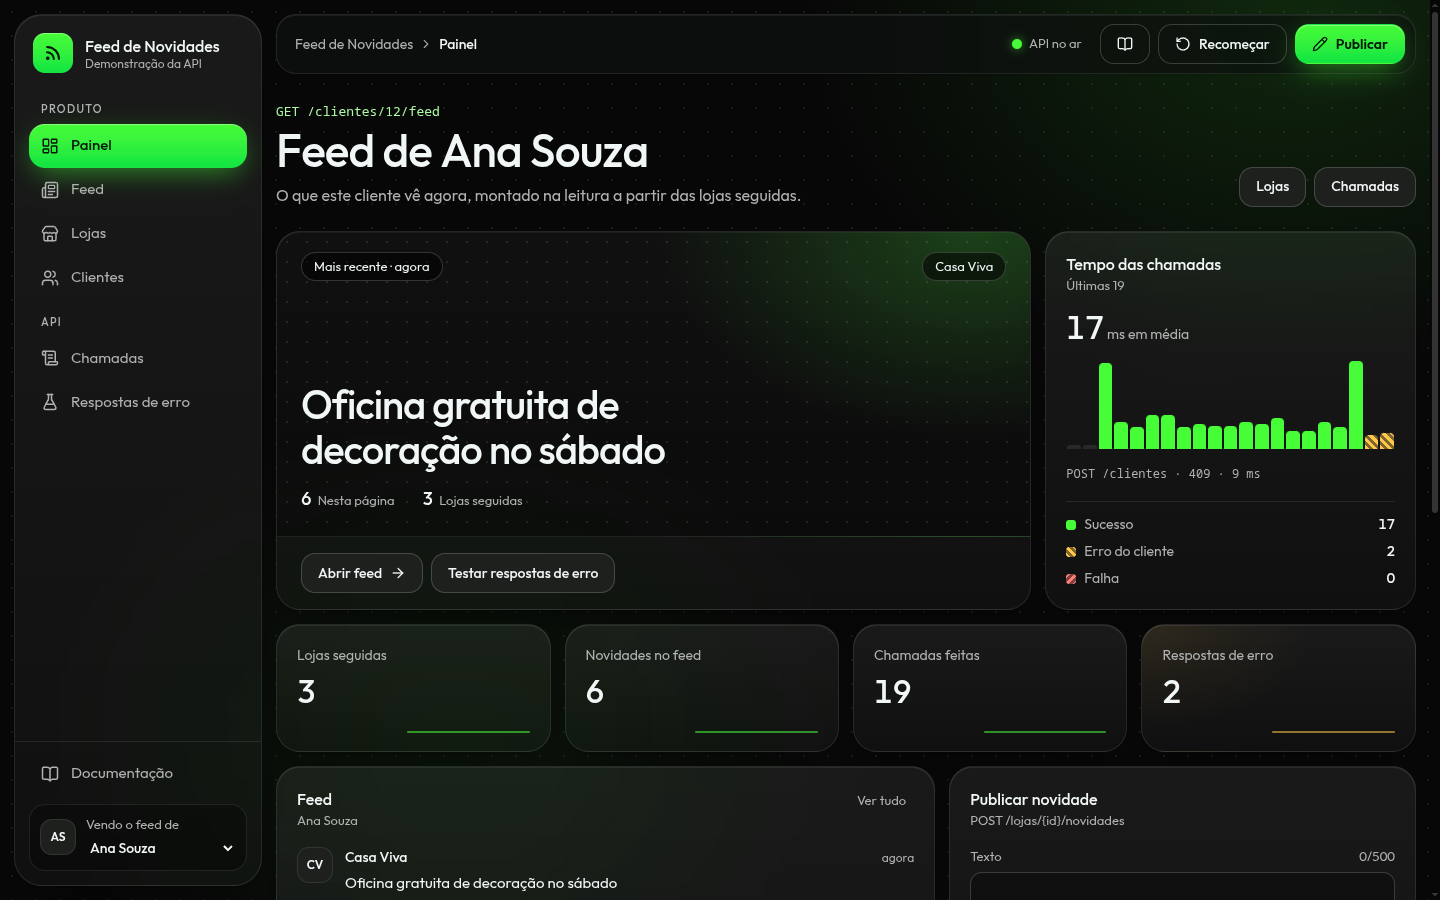
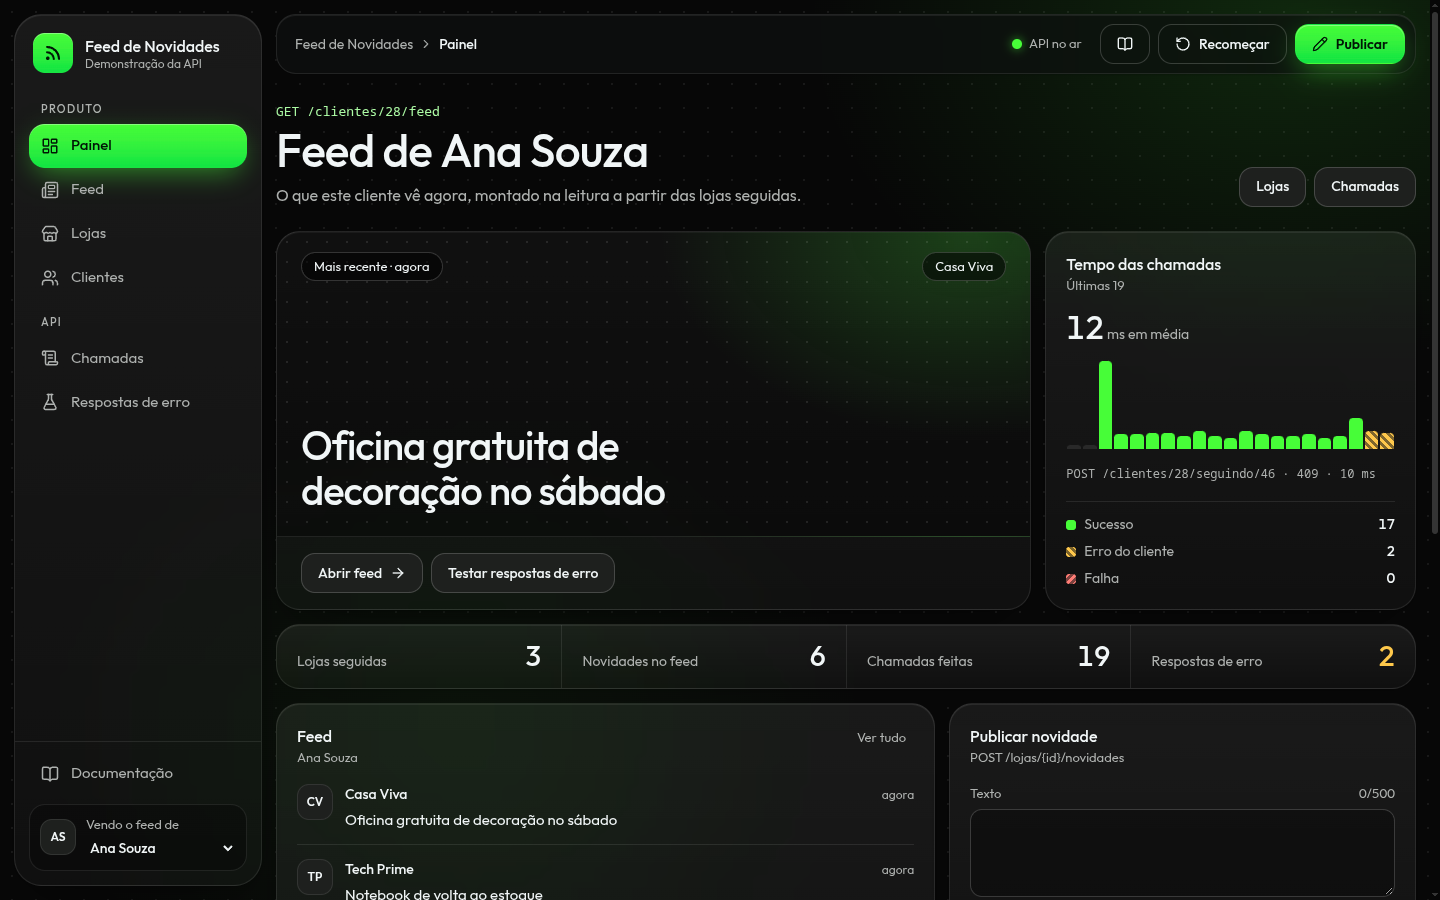
docs(readme): atualiza a imagem do painel e corrige detalhes da documentação

diff --git a/README.md b/README.md
@@ -48,14 +48,14 @@ Uma tela para ver a API funcionando de ponta a ponta, sem nenhuma alteração na
 
 ### Páginas
 
-| Página                | Para que serve                                                                     | Rotas usadas                                                                                    |
-| --------------------- | ---------------------------------------------------------------------------------- | ----------------------------------------------------------------------------------------------- |
-| **Painel**            | Novidade mais recente, indicadores, tempo das chamadas, feed resumido e publicação | várias                                                                                          |
-| **Feed**              | Feed completo, com escolha do limite (5, 20 ou 50) e **Carregar mais**             | `GET /clientes/{id}/feed`                                                                       |
-| **Lojas**             | Criar loja, seguir, deixar de seguir e publicar                                    | `POST /lojas`, `POST` e `DELETE /clientes/{id}/seguindo/{lojaId}`, `POST /lojas/{id}/novidades` |
-| **Clientes**          | Criar cliente e escolher de quem é o feed exibido                                  | `POST /clientes`                                                                                |
-| **Chamadas**          | Cada requisição feita pela tela, com método, status, tempo e JSON                  | todas                                                                                           |
-| **Respostas de erro** | Dispara os casos 400, 404, 409 e 422 e mostra a resposta                           | várias                                                                                          |
+| Página                | Para que serve                                                                                              | Rotas usadas                                                                                    |
+| --------------------- | ----------------------------------------------------------------------------------------------------------- | ----------------------------------------------------------------------------------------------- |
+| **Painel**            | Novidade mais recente, indicadores, tempo das chamadas, feed resumido, últimas chamadas, publicação e lojas | várias                                                                                          |
+| **Feed**              | Feed completo, com escolha do limite (5, 20 ou 50) e **Carregar mais**                                      | `GET /clientes/{id}/feed`                                                                       |
+| **Lojas**             | Criar loja, seguir, deixar de seguir e publicar                                                             | `POST /lojas`, `POST` e `DELETE /clientes/{id}/seguindo/{lojaId}`, `POST /lojas/{id}/novidades` |
+| **Clientes**          | Criar cliente e escolher de quem é o feed exibido                                                           | `POST /clientes`                                                                                |
+| **Chamadas**          | Cada requisição feita pela tela, com método, status, tempo e JSON                                           | todas                                                                                           |
+| **Respostas de erro** | Dispara os casos 400, 404, 409 e 422 e mostra a resposta                                                    | várias                                                                                          |
 
 O seletor **Vendo o feed de**, na barra lateral, troca o cliente ativo. No celular, essa troca fica na página **Clientes**.
 
@@ -117,7 +117,7 @@ curl -X POST localhost:3000/lojas/5/novidades -H 'Content-Type: application/json
   -d '{"texto":"Ração em promoção","preco":79.9}'
 ```
 
-`201`: `{"id":26,"lojaId":5,"texto":"Ração em promoção","preco":"79.90","criadoEm":"2026-11-04T23:39:46.062Z"}`
+`201`: `{"id":26,"texto":"Ração em promoção","preco":"79.90","criadoEm":"2026-11-04T23:39:46.062Z","lojaId":5}`
 
 ### `GET /clientes/{id}/feed?limite=20`
 
@@ -220,7 +220,7 @@ Medições num notebook, com PostgreSQL 17 em Docker, 2 mil lojas, 150 mil clien
 
 ### Banco
 
-- **Regras no banco:** e-mail único, chave primária `(cliente_id, loja_id)`, chaves estrangeiras e `CHECK` de texto e preço. Os erros 404 e 409 de seguir e publicar vêm dessas restrições, sem `SELECT` prévio, porque duas requisições simultâneas passariam juntas por uma checagem na aplicação. Há teste com requisições em paralelo.
+- **Regras no banco:** e-mail único, chave primária `(cliente_id, loja_id)`, chaves estrangeiras e `CHECK` de tamanho do texto e do nome e de preço positivo. Os erros 404 e 409 de seguir e publicar vêm dessas restrições, sem `SELECT` prévio, porque duas requisições simultâneas passariam juntas por uma checagem na aplicação. Há teste com requisições em paralelo.
 - **`seguindo` sem índice extra:** a chave primária já começa por `cliente_id`, que é a busca do feed. Um índice por `loja_id` só faria sentido com uma funcionalidade que liste seguidores.
 - **`bigint` como id:** índice compacto e ids fáceis de usar em testes manuais. Em troca, os ids são sequenciais e revelam volume, o que seria reavaliado se a API fosse pública.
 - **`NUMERIC(12,2)` para preço:** float acumula erro de arredondamento em dinheiro.
